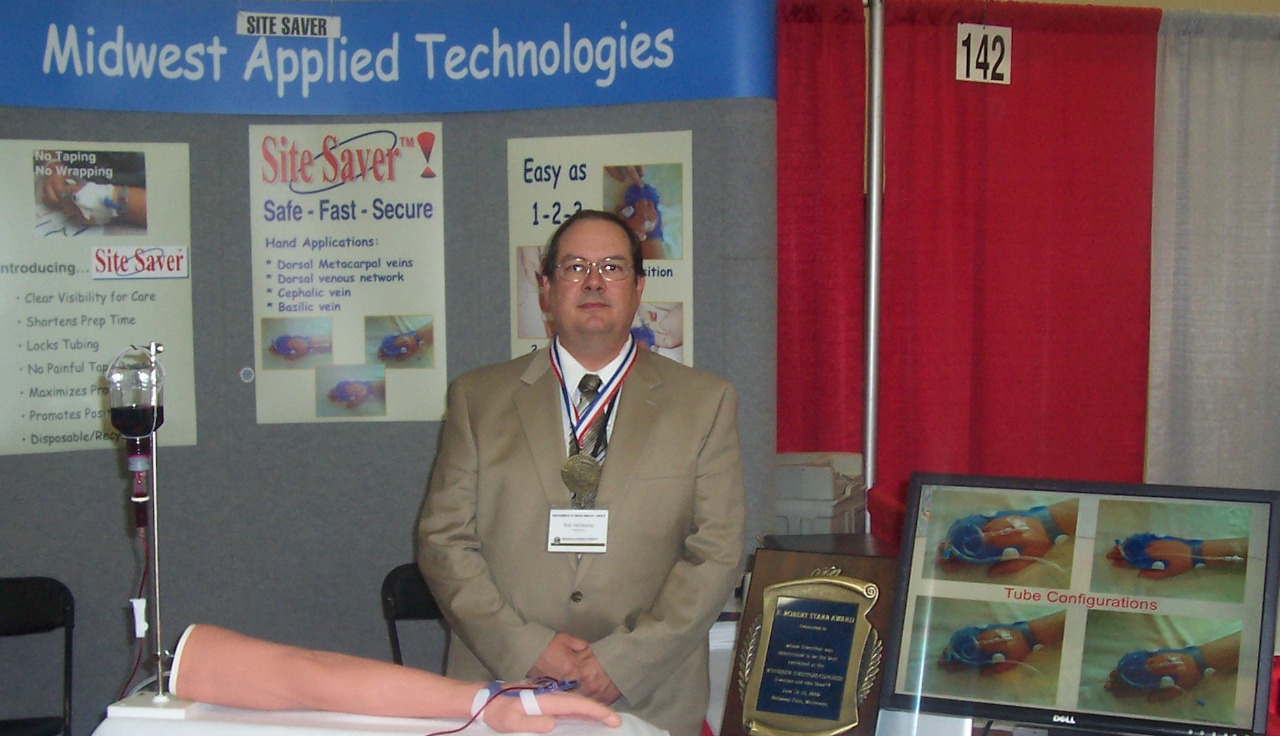
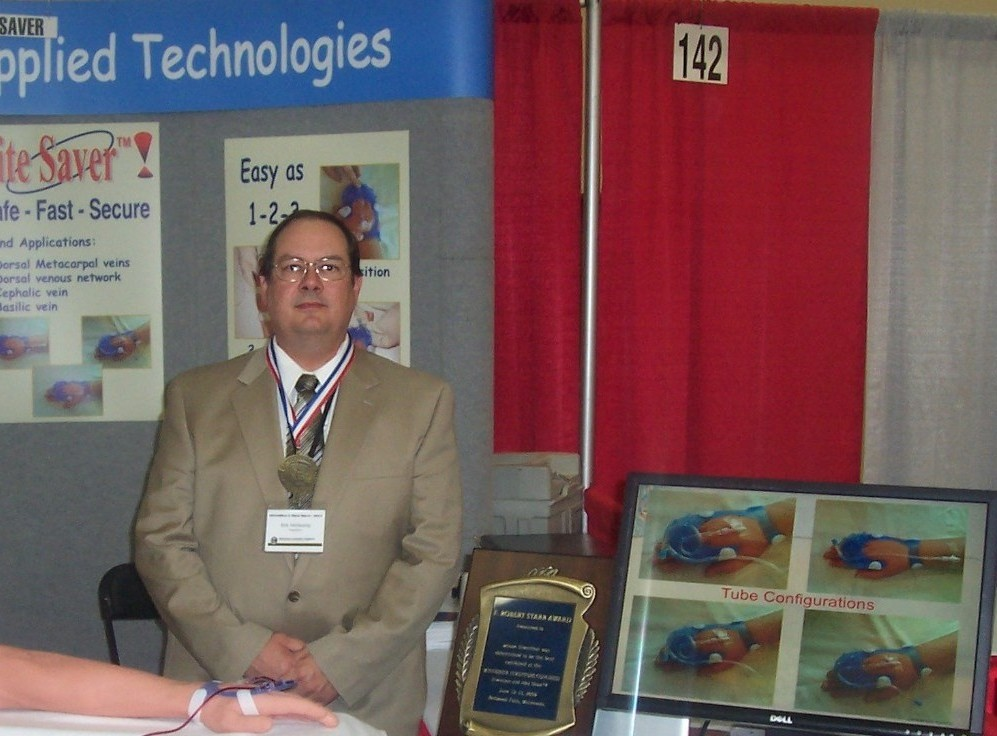
feat: replace nobull image with SVG and update event details

diff --git a/src/pages/Index.tsx b/src/pages/Index.tsx
@@ -18,7 +18,7 @@ import timeline03Img from "@/assets/midwest.jpg";
 import timeline04Img from "@/assets/timeline-04-icecream.png";
 import timeline05Img from "@/assets/timeline-05-poets.png";
 import timeline06Img from "@/assets/timeline-06-kids.png";
-import nobullImg from "@/assets/nobull.png";
+import nobullImg from "@/assets/nobull.svg";
 import starIcon from "@/assets/icon-star.svg";
 import calendarIcon from "@/assets/icon-calendar.svg";
 
@@ -199,6 +199,10 @@ a{color:inherit;text-decoration:none}
 .events-grid{
   display:grid;grid-template-columns:repeat(3,1fr);gap:28px;
   max-width:1440px;margin:48px auto 0;
+}
+  .events-grid:has(.event-card:only-child) {
+  grid-template-columns: 1fr;
+  justify-items: center;
 }
 .event-card{
   background:#fff;border-radius:16px;padding:26px 30px 28px;
@@ -1046,10 +1050,8 @@ const HISTORY = [
   { years: "2016–2026", dur: "10 years", t: "Executive Director — Marketplace for Kids", d: "Statewide education and youth leadership organization", img: timeline06Img },
 ];
 
-const EVENTS: { date: string; time?: string; name: string }[] = [
-  { date: "June 5-7, 2026", name: "Blue Goose Days!" },
-  { date: "June 9, 2026", name: "Vote for Bob in the Primary!" },
-  { date: "June 16, 2026", time: "5PM", name: "Crooked Lane Farm Fundraiser" },
+const EVENTS: { date: string; time?: string; name: string; location?: string }[] = [
+  { date: "July 4, 2026", name: "250th anniversary of the signing of the Declaration of Independence" },
 ];
 
 const WEB3FORMS_KEY = "0a519a1e-3432-4f6d-b41c-687968737c88";
@@ -1237,6 +1239,9 @@ const Index = () => {
                   <img src={starIcon} alt="" aria-hidden="true" />
                   {ev.name}
                 </h3>
+                <p style={{ marginTop: 8, fontSize: 14, color: "#555" }}>
+                  {ev.location}
+                </p>
               </article>
             ))}
           </div>
